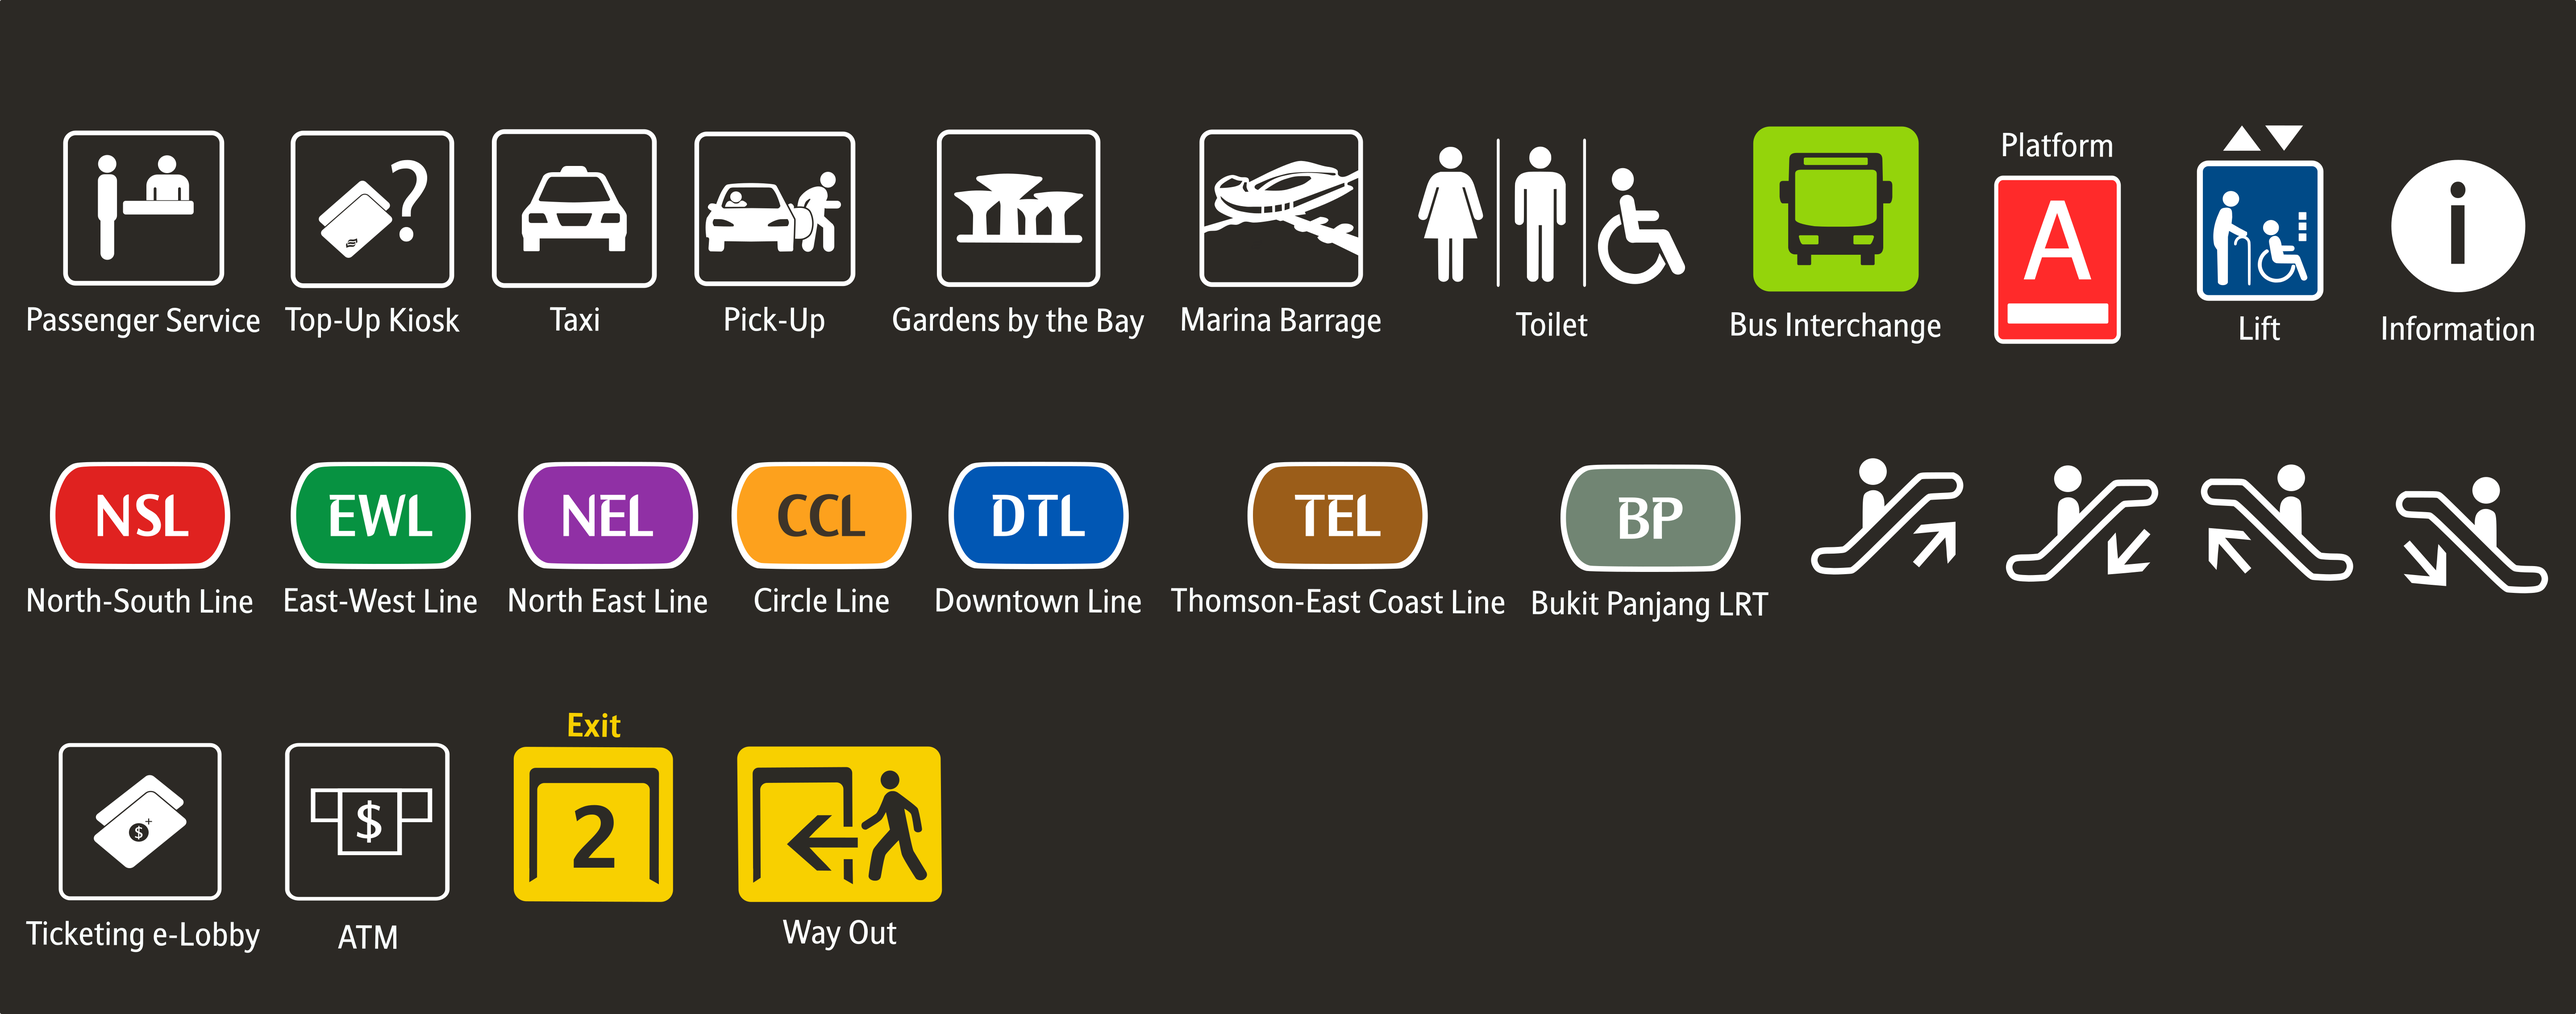
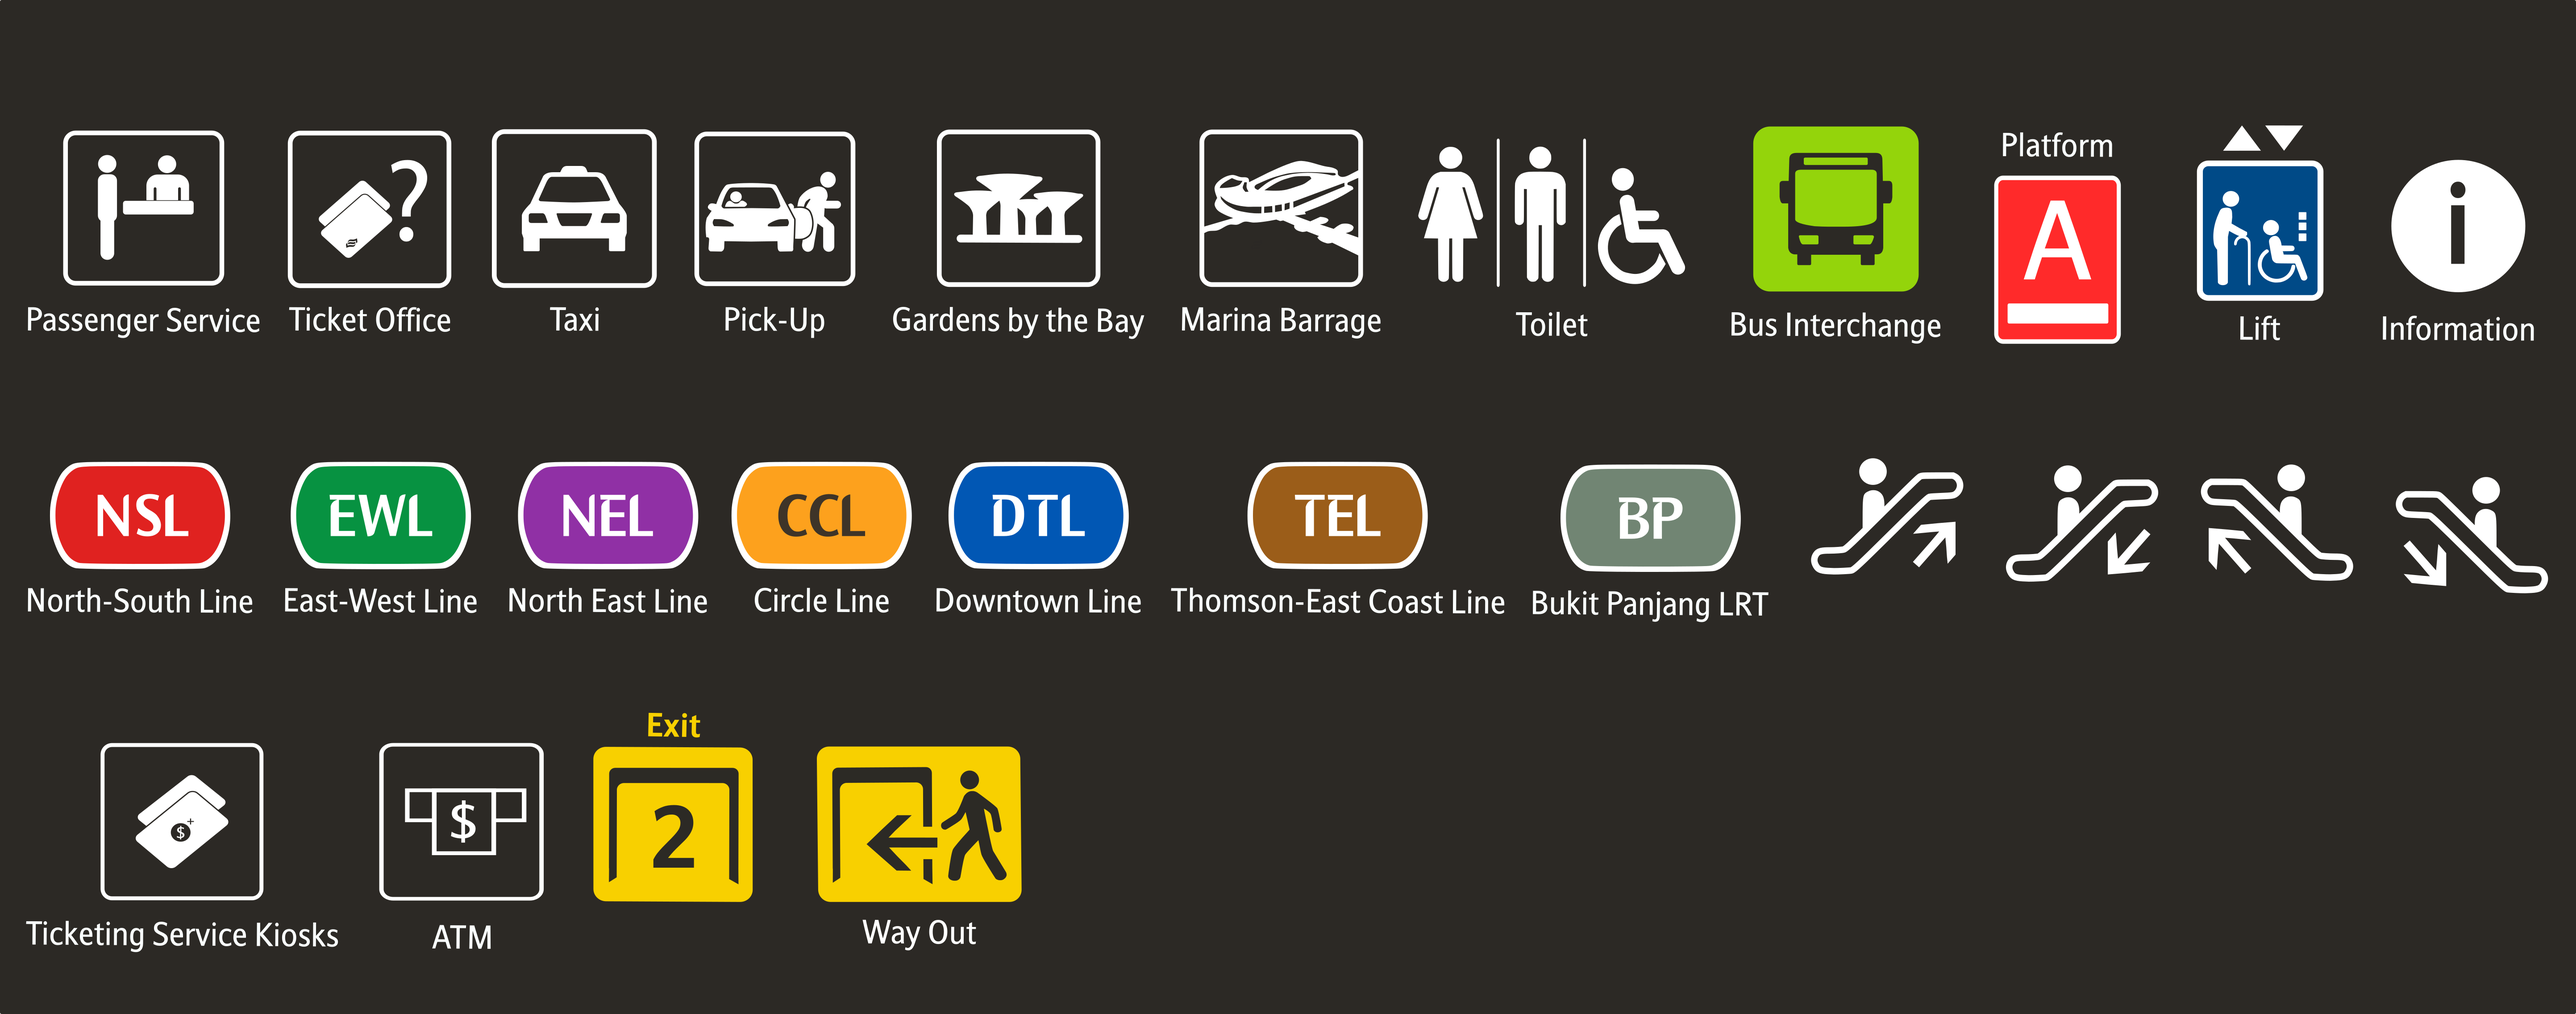
2023-01 Cumulative Update (1.0.10)

Changed region(s): [[0.0312, 0.6872, 0.4055, 0.9371], [0.0936, 0.2811, 0.1871, 0.3436]]

diff --git a/index.html b/index.html
@@ -125,9 +125,9 @@
                 <p class="summary">
                   The idea all started with the launch of the new Wayfinding system on the Thomson-East Coast Line
                   stations. It spots a new design language, where the emphasis was mainly on iconographies, rather than
-                  pure texts.<br><br>
+                  pure texts. I for one, am a huge fan of this new design albeit it has a few minor flaws. <br><br>
 
-                  While the intention sounds good on paper, the execution turned out to be problematic, as navigating
+                  While the intention sounds good on paper, the execution turned out to be unfavourable (trust me, it's still not too late to patch up stuffs), as navigating
                   through the Interchange station with these new system, were in fact, confusing commuters more. These
                   became evident after the opening of TEL2, where the passenger traffic grew, and people began utilising
                   the line.<br><br>
@@ -798,8 +798,8 @@
                     class="img-fluid-portfolio" alt=""></a>
                 <br><br>
                 <p class="contextImg-caption text-center">Fig. 30: Reworked signages for existing signages - Tampines
-                  EWL
-                  Station
+                  EWL Station <br>
+                  <b>Photo Credits: Discord user Joofer</a></b>
                 </p>
                 </p>
               </div>
@@ -811,6 +811,25 @@
                   inclusion of Exit Directories at both the Concourse and the Platforms as well. Hence, by the time the
                   user taps out from the station, they would've already knew which exits to take.
                   <br><br> <i>Exit Letters have been replaced with Exit Numbers, for standardization. </i>
+                </p>
+              </div>
+
+              <!--  -->
+              <div class="col-md-4 order-2 order-lg-1 text-center portfolio-item filter-id">
+                <a href="assets/img/prob-sol-img/proto8.png" data-gallery="portfolio-gallery"
+                  class="glightbox preview-link"><img src="assets/img/prob-sol-img/proto8.png"
+                    class="img-fluid-portfolio" alt=""></a>
+                <br><br>
+                <p class="contextImg-caption text-center">Fig. 31: Reworked signages for existing signages - Bishan NSL Station <br>
+                  <b>Photo Credits: Shahirwan Nur</a></b>
+                </p>
+                </p>
+              </div>
+
+              <div class="col-lg-8 order-2 order-lg-1" data-aos="fade-up" data-aos-delay="100">
+                <p class="summary">
+                  Same as the rest, but this time I tried applying my design at Bishan NSL, where it's using the older signage design
+                  <br><br> <i>Not going to lie, this one's a bit tricky.</i>
                 </p>
               </div>
 
